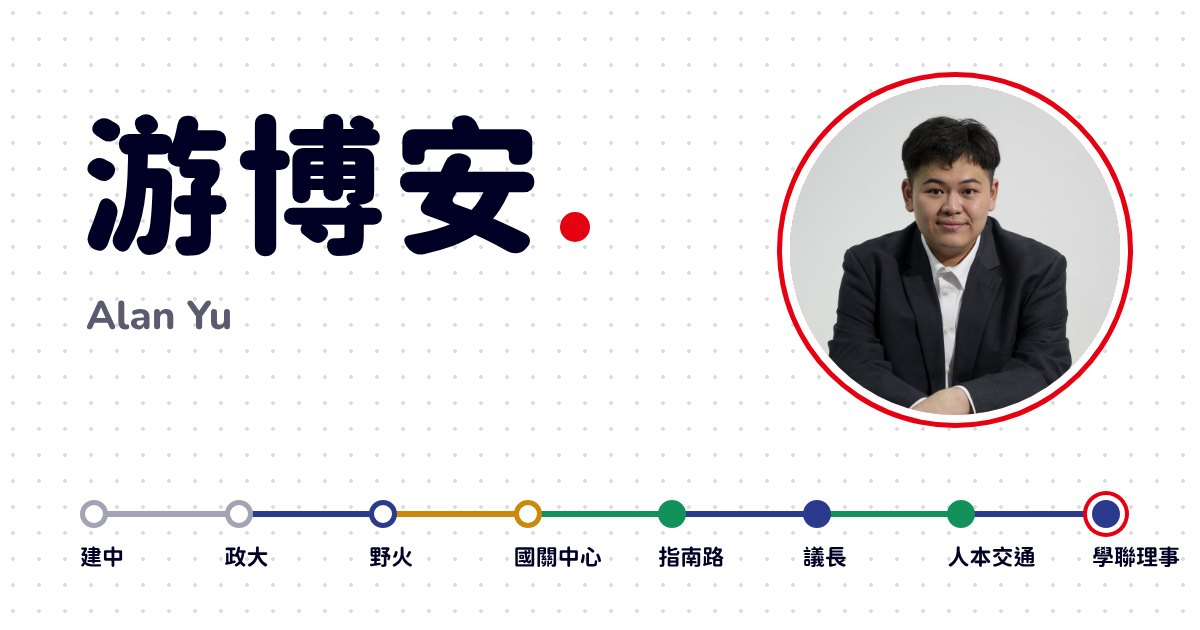
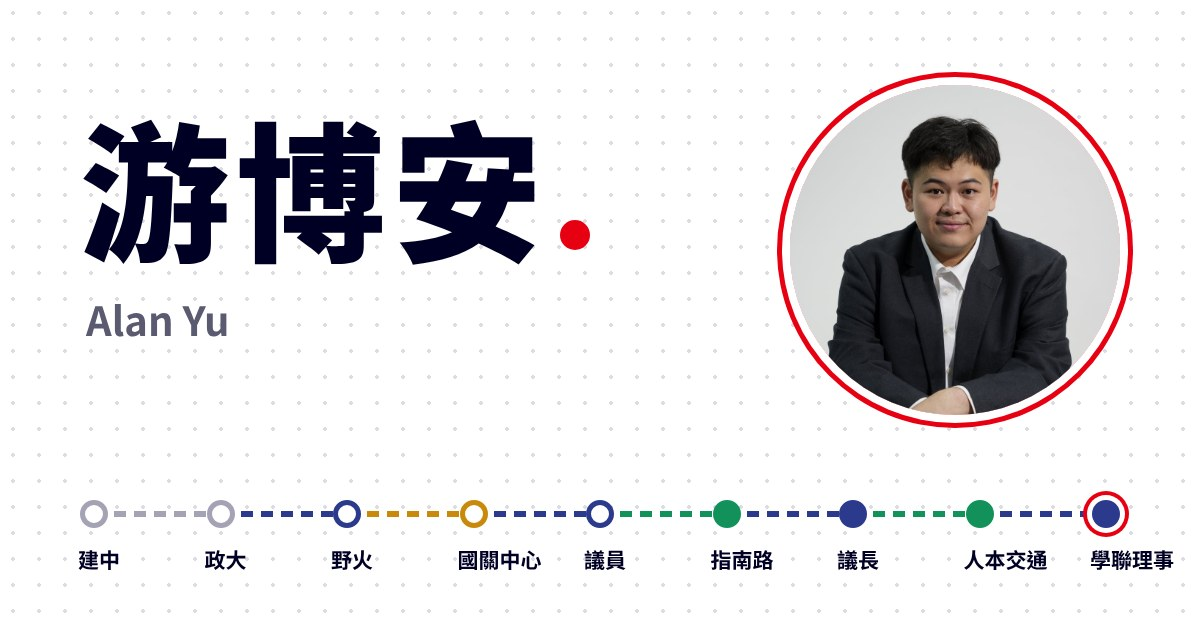
補學務／總務會議代表、改寫簡介、分享圖自動產生、畫面外暫停動畫、完整版 CV
- content.js：校務會議與委員會加「學務會議、總務會議學生代表」（任期待補）；簡介依新經歷改寫
- tools/og.html＋build.mjs：分享圖依 content.js 站點自動重畫
- site.js＋style.css 10-3 段：看不到的區塊暫停循環動畫
- cv.html?full=1＋build.mjs：完整版 CV PDF（含 cv:false 次要經歷），頁尾連結
- build.mjs：CLAUDE.md／AGENTS.md／README.md 不發布到網站

Claude-Session: https://claude.ai/code/session_01HnH5KuX3Triwo5mHwQCbC5

diff --git a/cv.html b/cv.html
@@ -131,6 +131,7 @@ html[lang="en"] .cv-entry.inline .cv-org::after { content: ", "; color: var(--te
     <label><input type="checkbox" id="opt-focus"><span data-t="focus"></span></label>
     <label><input type="checkbox" id="opt-works"><span data-t="works"></span></label>
     <label><input type="checkbox" id="opt-media"><span data-t="mediaOpt"></span></label>
+    <label><input type="checkbox" id="opt-full"><span data-t="full"></span></label>
     <button class="btn" id="printBtn" type="button"></button>
     <p class="hint" id="hint"></p>
   </div>
@@ -147,20 +148,24 @@ html[lang="en"] .cv-entry.inline .cv-org::after { content: ", "; color: var(--te
   var L = U.getLang();
 
   /* 勾選項：預設值寫在這裡（"1" 開、"0" 關）。預設組合剛好一頁 A4 */
-  var DEFAULTS = { photo: "0", focus: "0", works: "0", media: "1" };
+  var DEFAULTS = { photo: "0", focus: "0", works: "0", media: "1", full: "0" };
   var opt = {};
   Object.keys(DEFAULTS).forEach(function (k) { opt[k] = (params.get(k) || DEFAULTS[k]) === "1"; });
+
+  /* 完整版（full=1）：content.js 裡標 cv: false 的經歷、職務、說明也列出（不保證一頁）；
+     聯絡方式仍照 cv: false（社群帳號不印在正式 CV） */
+  function W() { return opt.full ? "all" : "cv"; }
 
   /* CV 段落順序：先學歷，再依 content.js 的 groups 順序 */
   var CV_ORDER = ["education", "current", "research", "experience"];
 
   var TX = {
-    zh: { back: "← 回個人網站", photo: "附照片", focus: "附關注領域", works: "附代表作", mediaOpt: "附媒體",
+    zh: { back: "← 回個人網站", photo: "附照片", focus: "附關注領域", works: "附代表作", mediaOpt: "附媒體", full: "完整版（含次要經歷，可能超過一頁）",
           print: "列印／存成 PDF",
           hint: "按「列印／存成 PDF」→ 目的地選「另存為 PDF」，紙張 A4、邊界「預設」，勾選「背景圖形」。勾選的選項會記在網址裡，可以直接把網址傳給別人。",
           summary: "簡介", media: "媒體與評論", shows: "政論節目來賓", news: "新聞受訪", focusT: "關注領域", worksT: "代表作",
           expertise: "專長", updated: "更新日期", ep: "集" },
-    en: { back: "← Back to website", photo: "Photo", focus: "Focus areas", works: "Selected work", mediaOpt: "Media",
+    en: { back: "← Back to website", photo: "Photo", focus: "Focus areas", works: "Selected work", mediaOpt: "Media", full: "Full version (all entries; may exceed one page)",
           print: "Print / Save as PDF",
           hint: "In the print dialog choose “Save as PDF”, paper A4, default margins, and enable “Background graphics”. Your options are kept in the URL so you can share it.",
           summary: "Profile", media: "Media & Commentary", shows: "Political talk shows", news: "News interviews", focusT: "Focus Areas", worksT: "Selected Work",
@@ -194,11 +199,11 @@ html[lang="en"] .cv-entry.inline .cv-org::after { content: ", "; color: var(--te
 
   /* 一個組織一筆；同組織多個職務時，組織名一行、各職務縮排列在下面 */
   function entries(list) {
-    return U.visible(list, "cv").map(function (it) {
-      var roles = it.roles ? U.visible(it.roles, "cv") : [{ role: it.role, period: it.period, points: it.points }];
+    return U.visible(list, W()).map(function (it) {
+      var roles = it.roles ? U.visible(it.roles, W()) : [{ role: it.role, period: it.period, points: it.points }];
       if (!roles.length) return "";
       function pts(r) {
-        var li = (r.points || []).filter(function (p) { return p.show !== false && p.cv !== false; })
+        var li = (r.points || []).filter(function (p) { return p.show !== false && (opt.full || p.cv !== false); })
           .map(function (p) { return "<li>" + esc(t(p, L)) + "</li>"; }).join("");
         return li ? '<ul class="cv-points">' + li + "</ul>" : "";
       }
@@ -222,7 +227,7 @@ html[lang="en"] .cv-entry.inline .cv-org::after { content: ", "; color: var(--te
 
   /* 媒體：自動統計每個節目的集數與年份 */
   function mediaSummary() {
-    var media = U.visible(S.media, "cv");
+    var media = U.visible(S.media, W());
     if (!media.length) return "";
     var shows = {}, order = [], outlets = [];
     media.forEach(function (m) {
@@ -275,19 +280,19 @@ html[lang="en"] .cv-entry.inline .cv-org::after { content: ", "; color: var(--te
 
     html += section(TX.summary, S.summary ? '<p class="cv-summary">' + esc(t(S.summary, L)) + "</p>" : "");
 
-    var gs = (S.groups || []).filter(function (g) { return g.show !== false && g.cv !== false; });
+    var gs = (S.groups || []).filter(function (g) { return g.show !== false && (opt.full || g.cv !== false); });
     gs.sort(function (a, b) {
       var ia = CV_ORDER.indexOf(a.key), ib = CV_ORDER.indexOf(b.key);
       return (ia < 0 ? 99 : ia) - (ib < 0 ? 99 : ib);
     });
     gs.forEach(function (g) { html += section(t(g.title, L), entries(g.items)); });
 
-    if (opt.works) html += section(TX.worksT, U.visible(S.works, "cv").map(function (w) {
+    if (opt.works) html += section(TX.worksT, U.visible(S.works, W()).map(function (w) {
       return '<div class="cv-entry"><div><span class="cv-org">' + esc(t(w.title, L)) + "</span>　" +
         '<span class="cv-role">' + esc(t(w.text, L)) + "</span></div><div></div></div>";
     }).join(""));
     if (opt.media) html += section(TX.media, mediaSummary());
-    if (opt.focus) html += section(TX.focusT, '<dl class="cv-two">' + U.visible(S.focus, "cv").map(function (i) {
+    if (opt.focus) html += section(TX.focusT, '<dl class="cv-two">' + U.visible(S.focus, W()).map(function (i) {
       return "<dt>" + esc(t(i.title, L)) + "</dt><dd>" + esc(t(i.text, L)) + "</dd>";
     }).join("") + "</dl>");
 

diff --git a/tools/og.html b/tools/og.html
@@ -1,0 +1,65 @@
+<!doctype html>
+<html lang="zh-Hant">
+<head>
+<meta charset="utf-8">
+<!-- 分享預覽圖的版型（1200×630）。tools/build.mjs 建置時用瀏覽器開這頁、截圖成 assets/og.jpg。
+     內容讀 content.js：姓名、照片、路線圖站點都跟網站同一份資料，改經歷分享圖會自動跟著變。
+     顏色與網站 style.css 第 0 段相同；改那邊的路線色時，這裡的 LINE 也要一起改。 -->
+<link href="https://fonts.googleapis.com/css2?family=Chiron+GoRound+TC:wght@500;700;900&display=swap" rel="stylesheet">
+<style>
+* { box-sizing: border-box; margin: 0; }
+body {
+  width: 1200px; height: 630px; overflow: hidden; position: relative;
+  font-family: "Chiron GoRound TC", "Noto Sans CJK TC", sans-serif; color: #000024; background: #fff;
+  background-image: radial-gradient(circle, #dcdce2 1.6px, transparent 1.8px); background-size: 26px 26px;
+}
+.name { position: absolute; left: 80px; top: 110px; font-size: 150px; font-weight: 900; letter-spacing: .04em; line-height: 1; }
+.name::after { content: ""; display: inline-block; width: 30px; height: 30px; border-radius: 50%; background: #e60012; margin-left: 12px; }
+.en { position: absolute; left: 86px; top: 290px; font-size: 40px; font-weight: 700; color: #5a5a70; }
+.photo { position: absolute; right: 80px; top: 85px; width: 330px; height: 330px; border-radius: 50%; overflow: hidden; box-shadow: 0 0 0 8px #fff, 0 0 0 13px #e60012; }
+.photo img { width: 100%; height: 100%; object-fit: cover; object-position: 50% 22%; }
+.route { position: absolute; left: 80px; right: 80px; top: 500px; height: 30px; }
+.seg { position: absolute; top: 11px; height: 6px; border-radius: 3px; }
+.dot { position: absolute; top: 0; width: 28px; height: 28px; border-radius: 50%; border: 5px solid; background: #fff; }
+.dot.now { background: currentColor; }
+.here { box-shadow: 0 0 0 5px #fff, 0 0 0 9px #e60012; }
+.lbl { position: absolute; top: 44px; font-size: 21px; font-weight: 700; white-space: nowrap; transform: translateX(-2px); }
+</style>
+</head>
+<body>
+<div class="name" id="name"></div>
+<div class="en" id="en"></div>
+<div class="photo"><img id="photo" alt=""></div>
+<div class="route" id="route"></div>
+<script src="/content.js"></script>
+<script>
+(function () {
+  var S = window.SITE;
+  var LINE = { gov: "#2b3a8c", china: "#c98a0b", transport: "#12925a" }, NONE = "#a3a3b5";
+  document.getElementById("name").textContent = S.name.zh;
+  document.getElementById("en").textContent = S.name.en;
+  document.getElementById("photo").src = "/" + String(S.photo || "").replace(/^\//, "");
+  function key(p) { var m = String(p || "").match(/(\d{4})(?:\.(\d{1,2}))?/); return m ? (+m[1]) * 100 + (+(m[2] || 0)) : 0; }
+  function vis(x) { return x && x.show !== false && x.web !== false; }
+  /* 站點：與 site.js 相同規則——職務上有 station 的，依開始年月排列 */
+  var st = [];
+  (S.groups || []).filter(vis).forEach(function (g) {
+    (g.items || []).filter(vis).forEach(function (it) {
+      var roles = it.roles ? it.roles.filter(vis) : [{ period: it.period, station: it.station }];
+      roles.forEach(function (r) { if (r.station) st.push({ n: r.station.zh, c: LINE[it.line] || NONE, now: /今/.test(r.period || ""), k: key(r.period) }); });
+    });
+  });
+  st.sort(function (a, b) { return a.k - b.k; });
+  var W = 1040, step = st.length > 1 ? (W - 28) / (st.length - 1) : 0, h = "";
+  st.forEach(function (s, i) {
+    if (i) h += '<div class="seg" style="left:' + ((i - 1) * step + 14) + 'px;width:' + step + 'px;background:repeating-linear-gradient(90deg,' + s.c + ' 0 12px,transparent 12px 20px)"></div>';
+  });
+  st.forEach(function (s, i) {
+    h += '<div class="dot' + (s.now ? " now" : "") + (i === st.length - 1 ? " here" : "") + '" style="left:' + (i * step) + 'px;color:' + s.c + ';border-color:' + s.c + '"></div>' +
+         '<div class="lbl" style="left:' + (i * step) + 'px">' + s.n + "</div>";
+  });
+  document.getElementById("route").innerHTML = h;
+})();
+</script>
+</body>
+</html>

diff --git a/content.js b/content.js
@@ -31,7 +31,7 @@
 
 window.SITE = {
 
-  updated: "2026-11-01",
+  updated: "2026-11-02",
 
   /* ---------- 1. 基本資料 ---------- */
   name: { zh: "游博安", en: "Alan Yu" },
@@ -51,8 +51,8 @@ window.SITE = {
 
   /* 自我介紹（網站上方與 CV 簡介共用）【待確認】 */
   summary: {
-    zh: "政大政治系學生，主修之外修讀哲學、政治學與經濟學專長。現任學生議會議長，曾在政大國際關係研究中心參與陸委會與國科會的中共政治研究；也從校門口的行人穿越道開始，以參與式預算推動指南路的人本交通改善。",
-    en: "Political science (PPE) student at NCCU and Speaker of its Student Congress; former research assistant on CCP elite politics; won participatory-budget funding for safer streets on Zhinan Road."
+    zh: "國立政治大學政治學系學生，修讀哲學、政治學與經濟學專長。現任學生議會議長、臺灣學生聯合會理事與下一代人本交通促進會副秘書長；曾任國關中心研究計畫助理，參與陸委會與國科會的中共政治研究，並以參與式預算推動指南路的人本交通改善。",
+    en: "Political science (PPE) student at NCCU; Speaker of its Student Congress; board member, National Students' Union of Taiwan; former research assistant on CCP elite politics; won participatory-budget funding for safer streets."
   },
 
   /* 專長（首頁小標籤 + CV） */
@@ -122,6 +122,7 @@ window.SITE = {
           { role: { zh: "校務會議學生代表", en: "Student Representative, University Council" }, period: "2023.08 – 今" },
           { role: { zh: "學生會校務諮詢委員會總召集人", en: "Chief Convener, Student Advisory Committee on University Affairs" }, period: "" },
           { role: { zh: "校園規劃與建設委員會委員", en: "Member, Campus Planning & Construction Committee" }, period: "", cv: false },
+          { role: { zh: "學務會議、總務會議學生代表", en: "Student Representative, Student Affairs & General Affairs Councils" }, period: "", cv: false },
           { role: { zh: "教務會議學院學生代表（社會科學學院）", en: "College Student Representative, Academic Affairs Council" }, period: "2025.02 – 2025.07", cv: false },
           { role: { zh: "校務考核委員會委員", en: "Member, University Evaluation Committee" }, period: "2024.09 – 2025.07" }
         ] },

diff --git a/site.js b/site.js
@@ -46,6 +46,8 @@
      download 是對方存檔時看到的檔名。 */
   var CV_PDF = EN ? { href: "/cv/alan-yu-cv-en.pdf", name: "Alan_Yu_CV.pdf" }
                   : { href: "/cv/yuboan-cv-zh.pdf", name: "游博安_CV.pdf" };
+  /* 完整版 CV（含 content.js 標 cv: false 的次要經歷，可能超過一頁）只從頁尾連結 */
+  var CV_FULL = EN ? "/cv/alan-yu-cv-en-full.pdf" : "/cv/yuboan-cv-zh-full.pdf";
 
   /* ---------- 頁首 ---------- */
   var nav = PAGES.map(function (p) {
@@ -314,7 +316,8 @@
       (mail ? '<a class="contact-mail" href="' + esc(U.href(mail)) + '">' + esc(mail.url.replace(/^mailto:/, "")) + "</a>" : "") +
       (social ? '<div class="social">' + social + "</div>" : "") +
       '<p class="footnote">' + esc(S.name.zh + " " + S.name.en) + "　" + tx("最後更新 ", "Last updated ") + esc(S.updated || "") +
-      '　<a href="/cv.html?lang=' + L + '">' + tx("CV 網頁版（可選附照片等）", "CV builder") + "</a></p></div>";
+      '　<a href="/cv.html?lang=' + L + '">' + tx("CV 網頁版（可選附照片等）", "CV builder") + "</a>" +
+      '　<a href="' + CV_FULL + '" download>' + tx("完整版 CV", "Full CV") + "</a></p></div>";
     document.body.appendChild(f);
   }
 
@@ -351,6 +354,15 @@
     }, { rootMargin: "0px 0px -8% 0px" });
     targets.forEach(function (el) { io.observe(el); });
   } else targets.forEach(function (el) { el.classList.add("is-in"); });
+
+  /* ---------- 動畫：畫面外的區塊暫停循環動畫（省電、捲動順） ----------
+     看不到的區塊加 is-off，style.css 第 10-3 段把裡面的動畫暫停；捲回來就繼續 */
+  if (ANIM && "IntersectionObserver" in window) {
+    var off = new IntersectionObserver(function (entries) {
+      entries.forEach(function (e) { e.target.classList.toggle("is-off", !e.isIntersecting); });
+    }, { rootMargin: "120px 0px" });
+    document.querySelectorAll("#main > section, footer.contact").forEach(function (el) { off.observe(el); });
+  }
 
   /* ---------- 動畫：點按鈕時，從點的位置盪開一圈水波 ---------- */
   if (ANIM) document.addEventListener("pointerdown", function (ev) {

diff --git a/style.css b/style.css
@@ -522,6 +522,11 @@ main > .block:first-child { border-top: 0; }
 @media print { .anim [data-reveal], .anim .ep-dots i { opacity: 1 !important; transform: none !important; animation: none !important; } }
 
 /* =========================================
+   10-3. 畫面外暫停：site.js 會在看不到的區塊加 .is-off，捲回來就繼續（省電、捲動順）
+   ========================================= */
+.anim .is-off, .anim .is-off *, .anim .is-off *::before, .anim .is-off *::after { animation-play-state: paused !important; }
+
+/* =========================================
    11. 減少動態：全部關掉（.anim 不會掛上，這裡再保險一次）
    ========================================= */
 @media (prefers-reduced-motion: reduce) {

diff --git a/CLAUDE.md b/CLAUDE.md
@@ -11,7 +11,7 @@
 - 讀者：國會／地方議會辦公室、政黨、智庫的招募者，多半只看 30 秒。
 - 設計淵源：視覺語言來自政大學生議會官網〈現任議長〉頁（深藍黑 `#000024`＋標誌紅 `#e60012`）。
 - 目前設計（v6，2026-11-02）：「圓點路線圖＋水滴」——經歷畫成捷運路線，圓點是站點也是水滴（實心＝現在、空心＝過去）；三個關注領域是三條路線色（gov 藍、china 金、transport 綠，`content.js` 的 `line`）；紅點只代表「現在位置」；首頁職涯路線圖依年份排列（`station`）、分段上色、每站連到經歷頁該筆；經歷每筆有組織圓章（`logo` 圖檔或 `mark` 簡稱）並附路線文字標籤（色弱也看得懂）；媒體頁一集一個點；字型昭源圓黑，按鈕膠囊形；CV PDF 維持黑體。使用者明確要求以圓點為 UI 核心、圓點寓意水滴、要更多動畫。
-- 動畫（style.css 第 10 段、10-2 段）：站點水滴落下＋漣漪、路線分段畫出、捲動浮現（`data-reveal`）、集數點依序滴出、點擊水波；10-2 段是「活起來」的循環效果：虛線往現在流動、進行中的圓點與圓章呼吸、現在位置持續泛波、照片漂浮、點陣底紋漂移、簡介逐行淡入、連結底線滑入。全部以 `html.anim` 為前提，「減少動態效果」時不播、內容直接顯示；`tools/build.mjs` 存檔前會拿掉動畫狀態。
+- 動畫（style.css 第 10 段、10-2 段）：站點水滴落下＋漣漪、路線分段畫出、捲動浮現（`data-reveal`）、集數點依序滴出、點擊水波；10-2 段是「活起來」的循環效果（10-3 段：畫面外的區塊由 `site.js` 加 `is-off` 暫停，省電）：虛線往現在流動、進行中的圓點與圓章呼吸、現在位置持續泛波、照片漂浮、點陣底紋漂移、簡介逐行淡入、連結底線滑入。全部以 `html.anim` 為前提，「減少動態效果」時不播、內容直接顯示；`tools/build.mjs` 存檔前會拿掉動畫狀態。
 - 連線一律用虛線（使用者 2026-11-02 要求），不用實線。
 
 ## 正本與待辦
@@ -30,16 +30,17 @@
 | `cv.html` | 正式 CV（A4、中英切換、列印存 PDF） | AI |
 | `style.css` | 樣式；顏色、尺寸等參數只在第 0 段 | AI |
 | `common.js` | 共用工具、語言切換、社群圖示 | AI |
-| `tools/build.mjs` | 建置：預先產生各分頁 HTML（給搜尋引擎與社群預覽）、資源網址加內容版本號（`?v=雜湊`，避免讀者瀏覽器拿到舊檔）、產生 CV PDF（`cv/yuboan-cv-zh.pdf`、`cv/alan-yu-cv-en.pdf`）、檢查 CV 頁數 | AI |
+| `tools/build.mjs` | 建置：預先產生各分頁 HTML（給搜尋引擎與社群預覽）、資源網址加內容版本號（`?v=雜湊`，避免讀者瀏覽器拿到舊檔）、產生 CV PDF（`cv/yuboan-cv-zh.pdf`、`cv/alan-yu-cv-en.pdf`，及完整版 `*-full.pdf`）、檢查 CV 頁數（完整版不檢查）、依 `tools/og.html` 產生分享圖 `assets/og.jpg` | AI |
+| `tools/og.html` | 分享圖版型（讀 `content.js` 的姓名、照片、站點）；路線色要與 `style.css` 第 0 段一致 | AI |
 | `404.html` | 找不到頁面；資源路徑一律 `/` 開頭 | AI |
-| `assets/` | 照片 `photo.jpg`（900×1200）、分享圖 `og.jpg`（1200×630，內容是首頁路線圖的靜態圖；路線站點或照片變動時要重做）、組織標誌 `logos/`、圖示授權 | — |
+| `assets/` | 照片 `photo.jpg`（900×1200）、分享圖 `og.jpg`（1200×630；建置時依 `content.js` 自動重畫，repo 裡那份只是備用）、組織標誌 `logos/`、圖示授權 | — |
 
 ## 規則
 
 - **同一個資料只維護一份**：文字只放 `content.js`，不要寫死在 HTML。必須重複時（例：網域出現在 `sitemap.xml`、`robots.txt`、`index.html` 開頭），寫註解說明要一起改哪幾處。
 - **`content.js` 要讓不懂程式的人改得動**：欄位名稱不改、每段有中文註解；新增欄位要在檔頭說明，並更新 `README.md`。
 - **個資**：repo 是公開的。電話、住址、身分證號不得進 repo。Email、社群帳號使用者已同意公開。
-- **CV 預設要剛好一頁 A4**（中、英文都是）。動到 `content.js` 文字量或 `cv.html` 樣式後要實測：用 Playwright 以 `preferCSSPageSize` 輸出 PDF，確認頁數。
+- **CV 預設要剛好一頁 A4**（中、英文都是）。完整版（`cv.html?full=1`）會列出 `cv: false` 的次要經歷，不限頁數；聯絡方式仍照 `cv: false`。動到 `content.js` 文字量或 `cv.html` 樣式後要實測：用 Playwright 以 `preferCSSPageSize` 輸出 PDF，確認頁數。
 - **圖示**用 Bootstrap Icons（MIT，內嵌在 `common.js`，授權在 `assets/LICENSE-bootstrap-icons.txt`），不要自己畫，也不要改成外部 CDN。
 - **照片**上傳前要縮圖並移除 EXIF（可能含拍攝地點）。
 - **組織標誌**只用使用者提供的圖檔（放 `assets/logos/`，於 `content.js` 的 `logo` 指定）；AI 不自己畫，也不從網路抓別人的標誌。
@@ -51,7 +52,7 @@
 - 校學士寫「哲學、政治學與經濟學專長」，不用「跨域彈性修業試辦計畫」。
 - 媒體：TVBS 三則不放；2023 年與侯友宜相關片段不放；政論節目在網站上只列節目名與集數（`mediaList: "summary"`）；「通告」YouTube 播放清單連結不公開（含上述片段）。
 - 首頁不放「數字證據列」（使用者覺得沒意義，2026-11-02 移除）。
-- 頁首按鈕直接下載 CV PDF；可勾選照片等選項的 `cv.html` 只從頁尾小連結進入（2026-11-02）。
+- 頁首按鈕直接下載 CV PDF（一頁版）；可勾選照片等選項的 `cv.html` 與完整版 CV 只從頁尾小連結進入（2026-11-02）。
 - 經歷資料（2026-11-02 依使用者 CV.pdf、FB 與聘函整理）：一個組織一筆、職務放 `roles`；同組織的屆次（如學聯第六、七屆）、政治系的學歷與獎學金合在同一組織；參與式預算三案集中在「臺北市政府參與式預算」，指南路小組只寫小組本身並指向它。
 - 網站分頁（2026-11-02）：首頁＝首屏（姓名、照片、身分）→ 關注領域 → 一路走來（路線圖）→ 近況；經歷、代表作、媒體各自一頁。首頁每一區結尾有連到對應分頁的按鈕（關注領域→代表作、一路走來→經歷、近況→媒體），使用者明確要求。避免重複：CV 下載只在頁首；社群圖示只在頁尾；首屏不放連結；已在精選出現的新聞不在清單重複。
 - 組織名稱一律用正式全名、同一個組織全站同一個寫法（使用者 2026-11-02 指出「學聯」兩處名稱不同）：例如「社團法人臺灣學生聯合會」「社團法人下一代人本交通促進會」「國立政治大學野火陣線社」；首頁身分、近況也用同樣的名稱。

diff --git a/README.md b/README.md
@@ -32,7 +32,7 @@
   看起來沒變就強制重新整理（Windows `Ctrl+Shift+R`／Mac `Cmd+Shift+R`）。
 - **加一筆經歷**：複製同一區裡的一整筆 `{ ... },`，貼在下面再改字。同一個組織有新職務，在那一筆的 `roles` 最上面加一行就好。
 - **先藏起來不刪**：在那一筆加 `show: false,`。
-- **網站有、CV 不放**：加 `cv: false,`；反過來用 `web: false,`。
+- **網站有、CV 不放**：加 `cv: false,`；反過來用 `web: false,`。標 `cv: false` 的經歷仍會出現在「完整版 CV」（頁尾連結，不限一頁）。
 - **加一筆媒體**：在 `media` 複製一行，改 `date`、`title`，`id` 填 YouTube 網址 `watch?v=` 後面那 11 碼；非 YouTube 的改用 `url: "..."`。
   `featured: true` 會放進網站最上面的精選影片（建議維持 3～4 支）。CV 會自動統計每個節目的集數和年份，不用另外改。
 - **媒體清單的列法**：`mediaList: "summary"` 時，政論節目只列節目名、集數、年份；改成 `"full"` 會逐集列出。逐集資料一律保留在 `media`，CV 的集數統計照算。
@@ -41,7 +41,7 @@
 - **圓點顏色**：每筆經歷的 `line` 決定圓點顏色（`gov` 藍、`china` 金、`transport` 綠，不寫是灰色）；期間有「今」的自動畫成實心點。
 - **首頁路線圖**：經歷加 `station: { zh: "短站名", en: "" }` 就會出現在首頁的職涯路線上，依開始年份排序，最後一站標成「現在位置」。點站點會跳到經歷頁那一筆。
 - **組織標誌**：把標誌圖檔（正方形、去背 PNG）上傳到 `assets/logos/`，再把那一筆的 `logo` 填成 `"assets/logos/檔名.png"`。沒填就顯示 `mark` 簡稱。
-- **分享預覽圖** `assets/og.jpg` 是首頁路線圖的靜態圖，站點或照片變了，請 AI 重做一張。
+- **分享預覽圖** `assets/og.jpg` 每次發布時依 `content.js` 自動重畫（姓名、照片、路線站點），不用手動改。
 - **近況**在 `news`：一行一件事，網站自動照日期排、先顯示 5 筆。建議每月補一行。
 - **其他經歷**標了 `collapsed: true`，首頁只先顯示前 3 筆；拿掉就全部展開。
 
